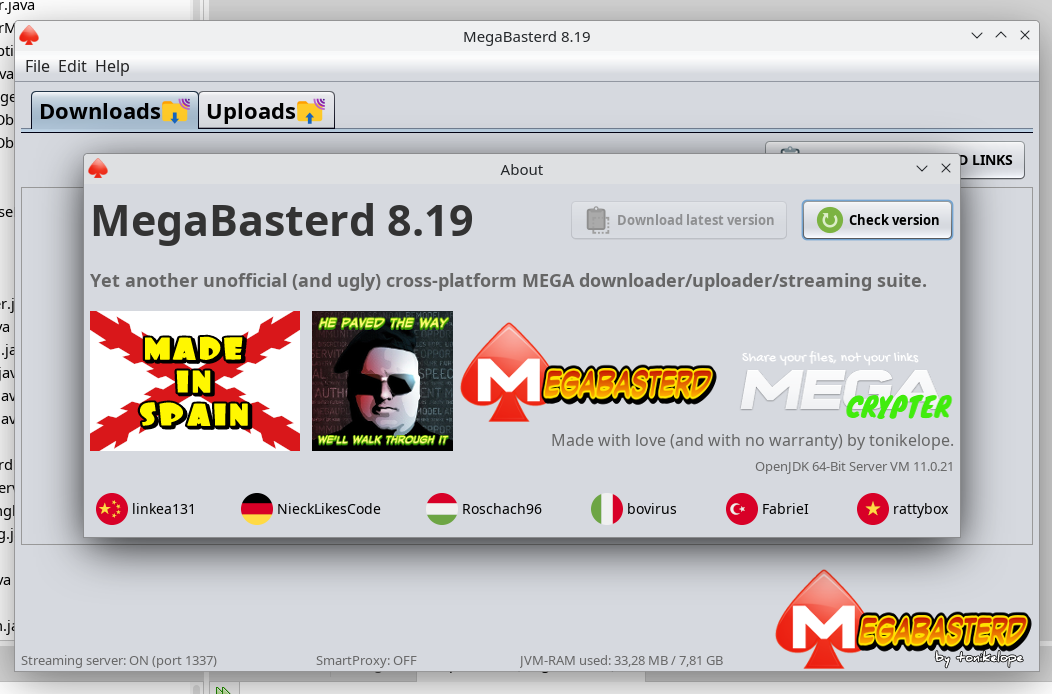
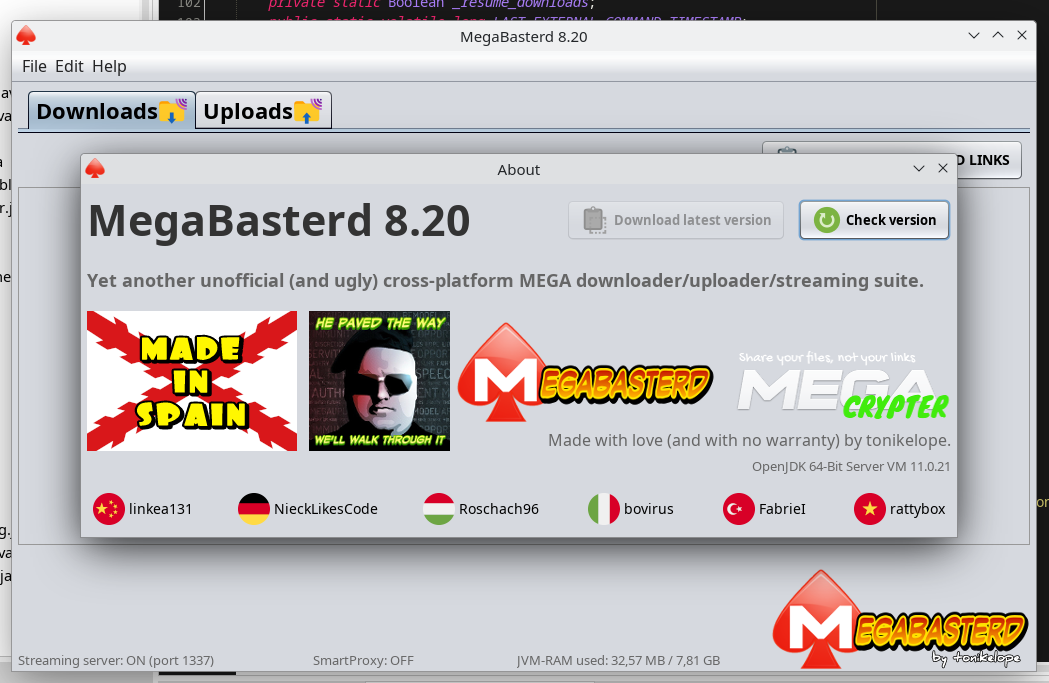
8.20
Trying to mitigate https://github.com/tonikelope/megabasterd/issues/623

Changed region(s): [[0.0, 0.0, 1.0, 1.0], [0.5491, 0.2767, 0.9152, 0.369], [0.0, 0.246, 0.0305, 0.8609]]

diff --git a/src/main/java/com/tonikelope/megabasterd/MainPanel.java b/src/main/java/com/tonikelope/megabasterd/MainPanel.java
@@ -69,7 +69,7 @@ import javax.swing.UIManager;
  */
 public final class MainPanel {
 
-    public static final String VERSION = "8.19";
+    public static final String VERSION = "8.20";
     public static final boolean FORCE_SMART_PROXY = false; //TRUE FOR DEBUGING SMART PROXY
     public static final int THROTTLE_SLICE_SIZE = 16 * 1024;
     public static final int DEFAULT_BYTE_BUFFER_SIZE = 16 * 1024;
@@ -106,14 +106,19 @@ public final class MainPanel {
 
     public static void main(String args[]) {
 
-        boolean dark = false;
-
         try {
-            dark = "yes".equals(DBTools.selectSettingValue("dark_mode"));
-        } catch (Exception ex) {
+
+            setupSqliteTables();
+
+        } catch (SQLException ex) {
+            Logger.getLogger(MainPanel.class.getName()).log(SEVERE, null, ex);
         }
 
-        setNimbusLookAndFeel(dark);
+        setNimbusLookAndFeel("yes".equals(DBTools.selectSettingValue("dark_mode")));
+
+        if ("yes".equals(DBTools.selectSettingValue("upload_log"))) {
+            MiscTools.createUploadLogDir();
+        }
 
         if (args.length > 0) {
 
@@ -258,16 +263,6 @@ public final class MainPanel {
         _resume_uploads = false;
 
         _resume_downloads = false;
-
-        MiscTools.createUploadLogDir();
-
-        try {
-
-            setupSqliteTables();
-
-        } catch (SQLException ex) {
-            Logger.getLogger(MainPanel.class.getName()).log(SEVERE, null, ex);
-        }
 
         loadUserSettings();
 

diff --git a/src/main/java/com/tonikelope/megabasterd/SettingsDialog.java b/src/main/java/com/tonikelope/megabasterd/SettingsDialog.java
@@ -2129,6 +2129,10 @@ public class SettingsDialog extends javax.swing.JDialog {
             settings.put("smartproxy_timeout", String.valueOf(proxy_timeout_spinner.getValue()));
             settings.put("smartproxy_autorefresh_time", String.valueOf(auto_refresh_proxy_time_spinner.getValue()));
 
+            if (upload_log_checkbox.isSelected()) {
+                createUploadLogDir();
+            }
+
             if (custom_proxy_textarea.getText().trim().length() == 0) {
                 smart_proxy_checkbox.setSelected(false);
             }
